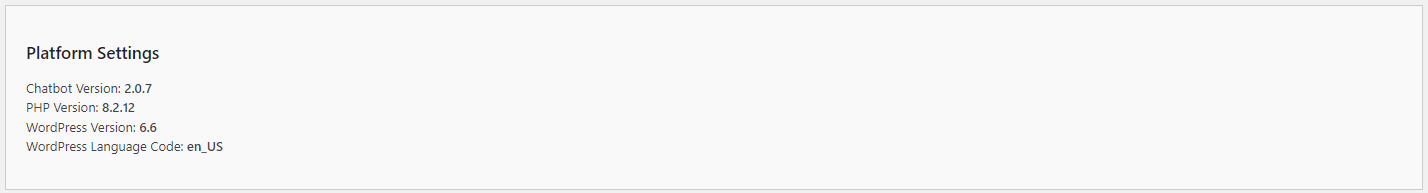
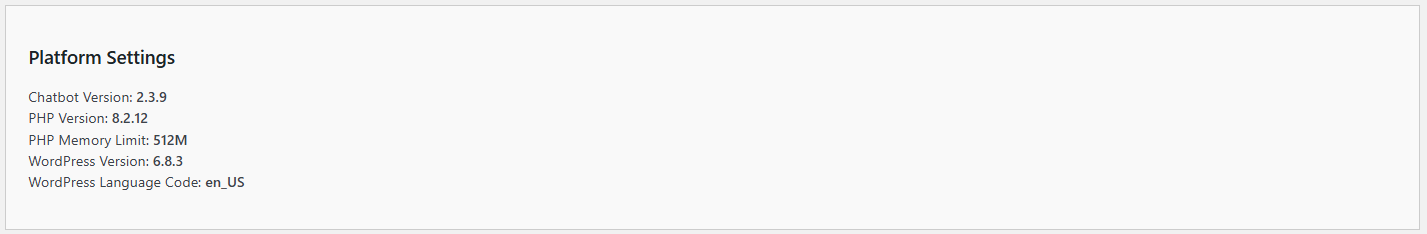
V2.3.9 - Updated documentation to cover Cache/Locks Reset and Beta Feature Settings

diff --git a/documentation/messages/messages.md b/documentation/messages/messages.md
@@ -21,7 +21,7 @@ The Messages and Diagnostics Settings help you monitor the health and performanc
    - **Details**: Indicates whether the connection was successful.
    - **Usage**: Check this status to verify that the chatbot can communicate with the OpenAI API. A successful connection is necessary for the chatbot to function correctly.
 
-#Messages and Diagnostics Settings
+# Messages and Diagnostics Settings
 
 ![Messages and Diagnostics Settings](messages-and-diagnostics-settings.png)
 
@@ -151,6 +151,85 @@ If you want more detailed logging, you can also add the following lines to `wp-c
 - You can access the error log by navigating to the `wp-content` directory and opening the `debug.log` file.
 
 By enabling these settings, you can track and troubleshoot errors that occur within your WordPress site. If you need more advanced logging or custom error handling, consider using a logging plugin like WP Debugging or Error Log Monitor.
+
+# Advanced
+
+**Caution: Advanced Features Ahead**
+
+Use these advanced features with caution. They can affect the performance and stability of your chatbot. These tools are designed for troubleshooting and maintenance purposes only.
+
+## Reset Cache/Locks
+
+![Reset Cache/Locks](messages-advanced-options.png)
+
+1. **Reset Cache/Locks**:
+   - **Description**: A maintenance tool that allows you to clear various cached data and reset conversation locks that may be causing issues with your chatbot.
+   - **Warning**: This action will:
+     - Clear all conversation locks
+     - Reset message queues
+     - Clean up expired transients
+     - Clear cached data
+   - **Usage**: Use this only if you're experiencing issues with stuck conversations or performance problems. This tool should be used as a last resort when other troubleshooting methods have failed.
+   - **When to Use**:
+     - Conversations appear to be stuck or not responding
+     - Messages are not being processed correctly
+     - Performance issues that may be related to cached data
+     - After making significant configuration changes that require a fresh start
+   - **How to Use**:
+     1. Navigate to the Advanced section of the Messages and Diagnostics settings.
+     2. Review the warning message to understand what will be cleared.
+     3. Click the "Reset Cache/Locks" button to perform the reset.
+     4. Wait for the confirmation message indicating the reset was successful.
+   - **Important Notes**:
+     - This action cannot be undone. All cached data and locks will be permanently cleared.
+     - Active conversations may be interrupted when this action is performed.
+     - The chatbot will rebuild its cache and locks as new conversations begin.
+     - It is recommended to perform this action during low-traffic periods if possible.
+
+# Beta Features
+
+**Caution: Beta Features Ahead** 🚧
+
+Enabling Beta Features in the Kognetiks Chatbot plugin is intended for testing and experimental purposes only. These features are not fully tested or guaranteed to work as expected and may cause unexpected behavior, errors, or conflicts with your website.
+
+## Important Notices
+
+1. **Backup Your Site**:
+   - Before enabling Beta Features, ensure you have a complete backup of your WordPress site and database.
+   - This includes all files, database tables, and any custom configurations.
+   - Having a backup allows you to quickly restore your site if any issues occur.
+
+2. **Test Environment Recommended**:
+   - Beta Features should only be enabled in a testing or staging environment.
+   - Avoid enabling them on live or production sites.
+   - Use a development or staging site to test beta features before considering them for production use.
+
+3. **Use at Your Own Risk**:
+   - Kognetiks assumes no liability for issues arising from the use of Beta Features.
+   - By enabling them, you accept full responsibility for any changes or damage to your site.
+   - Beta features may be unstable, incomplete, or subject to change without notice.
+
+If you're unsure about any of these steps, consult with a web professional or WordPress expert before proceeding.
+
+## Enable Beta Features
+
+![Beta Feature Settings](messages-beta-features.png)
+
+1. **Enable Beta Features**:
+   - **Description**: This setting allows you to enable experimental and beta features that are still in development. These features may provide new functionality but are not yet fully tested or stable.
+   - **Options**: 
+     - `No`: Beta features are disabled (default and recommended for production sites).
+     - `Yes`: Beta features are enabled for testing purposes.
+   - **Selection**: Choose `Yes` to enable beta features if you want to test experimental functionality. Select `No` to keep beta features disabled.
+   - **Usage**: 
+     - Only enable beta features if you understand the risks and have taken appropriate precautions (backup, testing environment, etc.).
+     - Monitor your site closely after enabling beta features to identify any issues or conflicts.
+     - Report any bugs or issues you encounter to help improve the features before they are released as stable.
+   - **Important Notes**:
+     - Beta features may change or be removed in future updates without notice.
+     - Some beta features may conflict with other plugins or themes.
+     - Performance may be affected when using beta features.
+     - Always disable beta features before updating the plugin to avoid potential conflicts.
 
 ---
 
